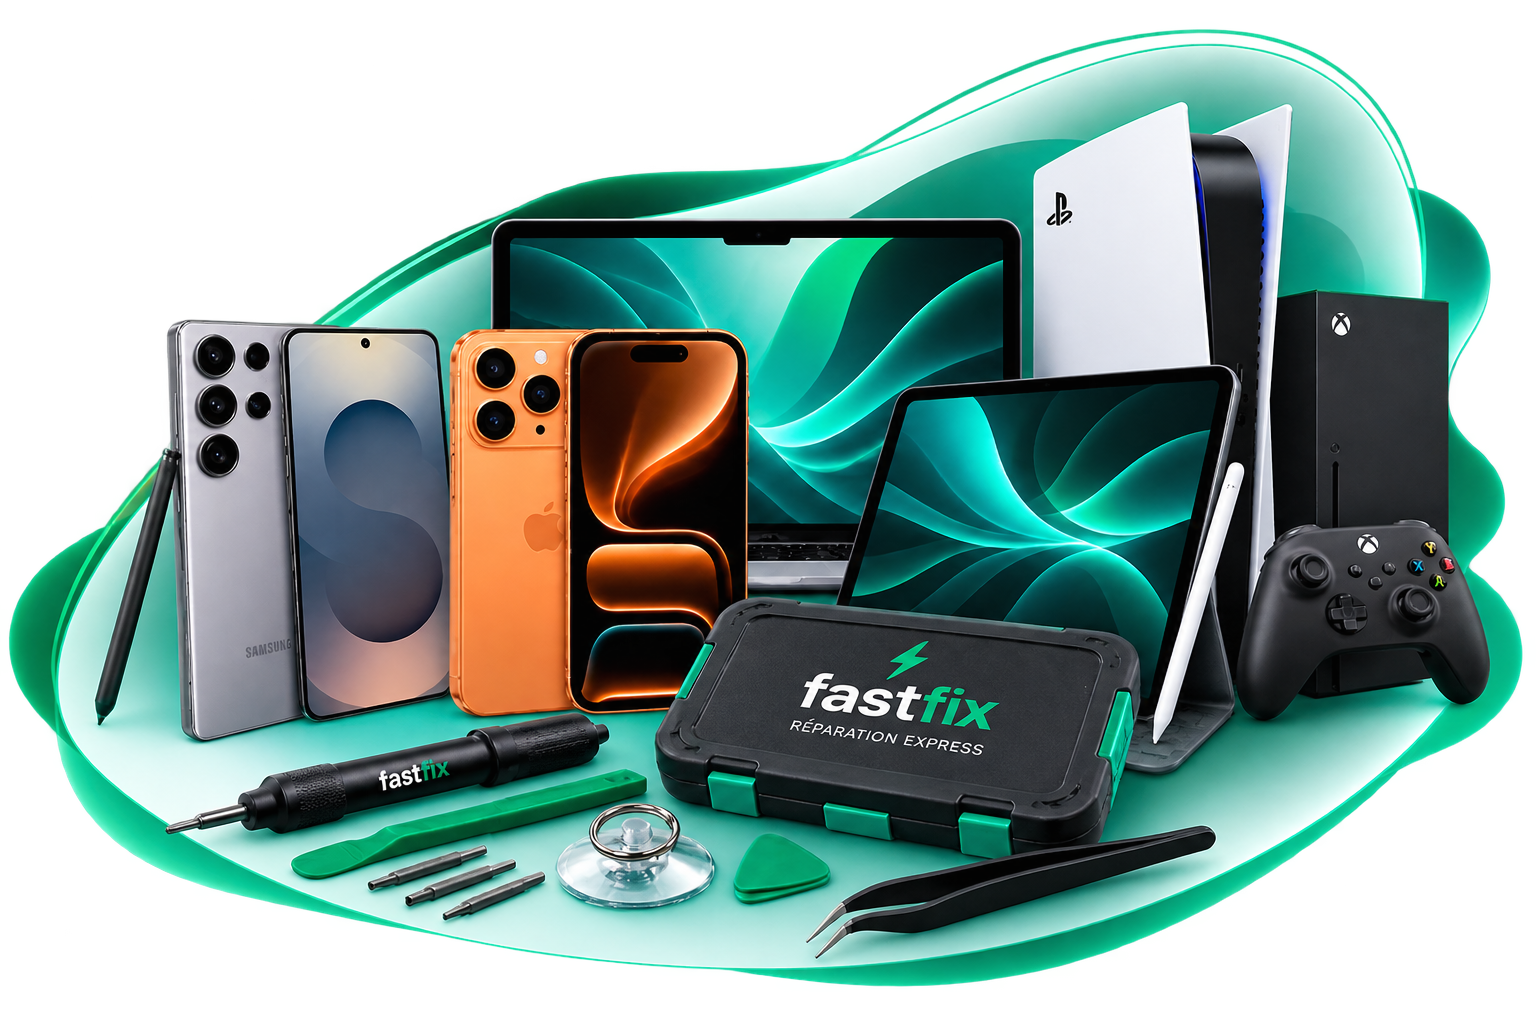
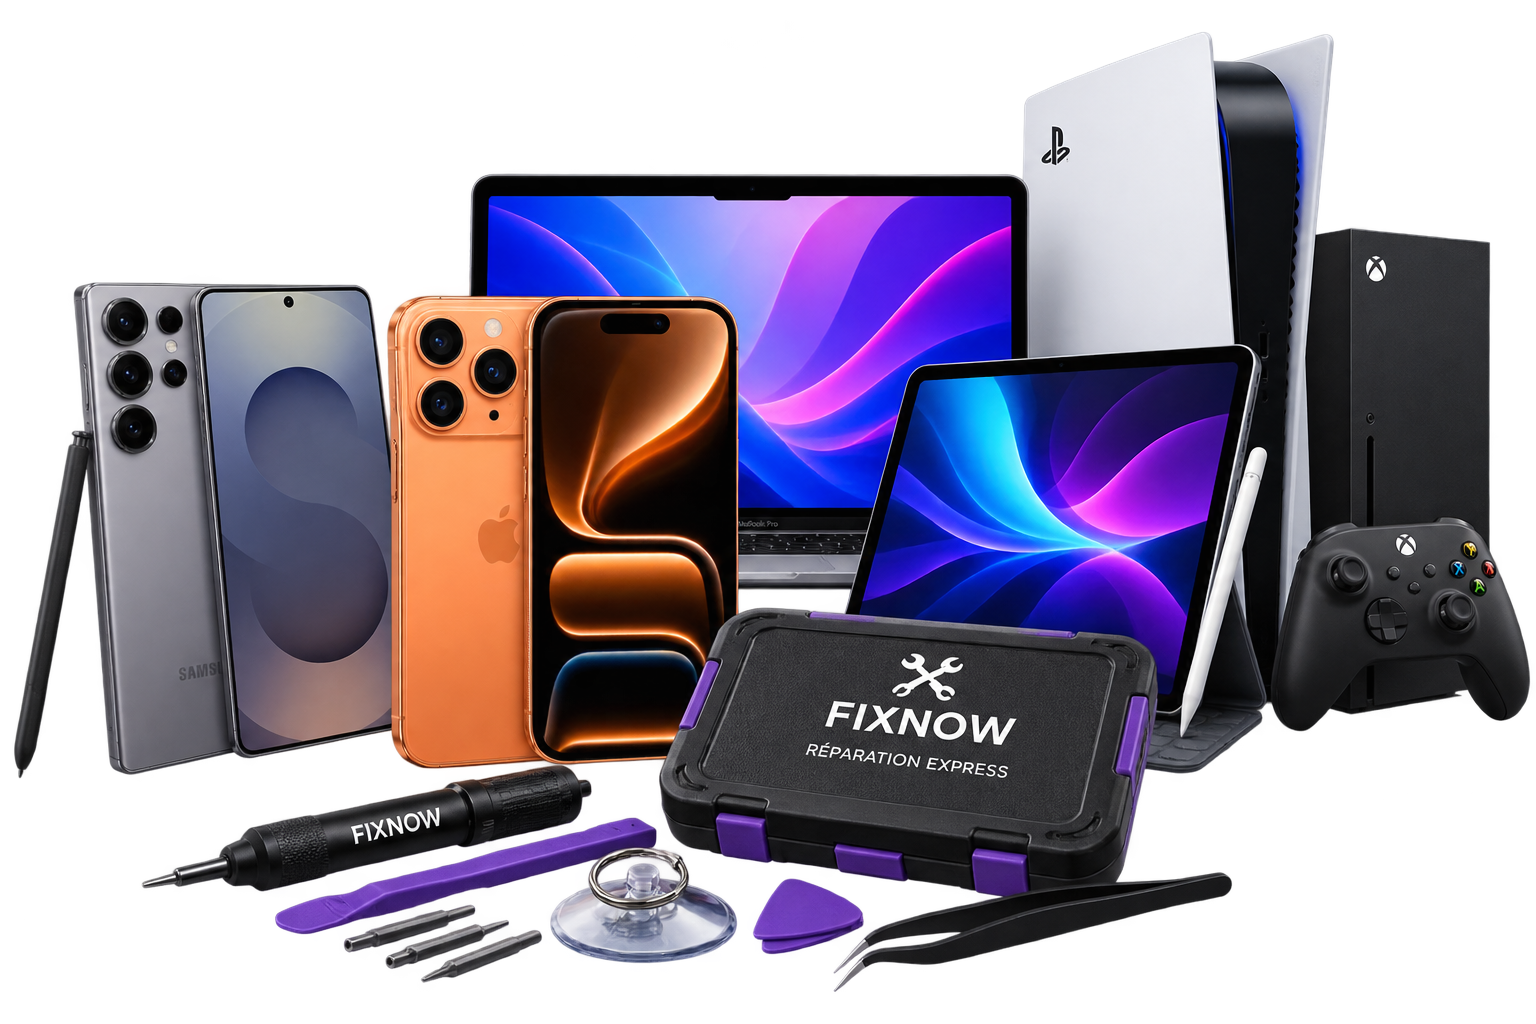
'edit'

diff --git a/src/styles/global.css b/src/styles/global.css
@@ -5,20 +5,20 @@
   --font-sans: "Inter", system-ui, sans-serif;
 
   --color-bg: #FFFFFF;
-  --color-bg-alt: #F4F7F5;
+  --color-bg-alt: #F7F7F7;
   --color-bg-dark: #0A0A0A;
   --color-surface: #FFFFFF;
 
-  --color-primary: #10B981;
-  --color-primary-light: #34D399;
-  --color-primary-dark: #059669;
+  --color-primary: #F97316;
+  --color-primary-light: #FB923C;
+  --color-primary-dark: #C2410C;
 
-  --color-teal: #059669;
-  --color-teal-light: #6EE7B7;
+  --color-teal: #1F1F1F;
+  --color-teal-light: #4B4B4B;
 
-  --color-cyan: #06D6A0;
-  --color-accent: #06D6A0;
-  --color-accent-light: #6EE7B7;
+  --color-cyan: #F97316;
+  --color-accent: #F97316;
+  --color-accent-light: #FDBA74;
 
   --color-warning: #F59E0B;
   --color-danger: #EF4444;
@@ -57,7 +57,7 @@ body {
   background: linear-gradient(
     135deg,
     var(--color-primary),
-    #06D6A0
+    #FB923C
   );
 
   -webkit-background-clip: text;
@@ -66,7 +66,7 @@ body {
 }
 
 /* ══════════════════════════════════════
-   NOIR PROFOND → VERT ÉMERAUDE PREMIUM
+   NOIR PROFOND → ORANGE PREMIUM
 ══════════════════════════════════════ */
 
 /* Gradient principal */
@@ -75,15 +75,15 @@ body {
   background:
     radial-gradient(
       circle at 75% 45%,
-      rgba(16, 185, 129, 0.20) 0%,
+      rgba(249, 115, 22, 0.20) 0%,
       transparent 35%
     ),
     linear-gradient(
       110deg,
-      #080d0c 0%,
-      #0b211b 35%,
-      #0b5a43 68%,
-      #059669 100%
+      #080808 0%,
+      #171717 35%,
+      #3a2411 68%,
+      #C2410C 100%
     );
 }
 
@@ -93,14 +93,14 @@ body {
   background:
     radial-gradient(
       circle at 80% 50%,
-      rgba(52, 211, 153, 0.15) 0%,
+      rgba(251, 146, 60, 0.15) 0%,
       transparent 40%
     ),
     linear-gradient(
       110deg,
-      #0a0f0d 0%,
-      #102a22 45%,
-      #065f46 100%
+      #0a0a0a 0%,
+      #1f1f1f 45%,
+      #7C2D12 100%
     );
 }
 
@@ -110,21 +110,21 @@ body {
   background:
     radial-gradient(
       circle at 78% 42%,
-      rgba(52, 211, 153, 0.18) 0%,
+      rgba(251, 146, 60, 0.18) 0%,
       transparent 32%
     ),
     radial-gradient(
       circle at 55% 100%,
-      rgba(5, 150, 105, 0.20) 0%,
+      rgba(194, 65, 12, 0.20) 0%,
       transparent 45%
     ),
     linear-gradient(
       110deg,
-      #070b0a 0%,
-      #0a211a 30%,
-      #0b4939 60%,
-      #087b5b 82%,
-      #059669 100%
+      #070707 0%,
+      #1a1a1a 30%,
+      #4a2810 60%,
+      #9A3412 82%,
+      #F97316 100%
     );
 }
 
@@ -134,10 +134,10 @@ body {
   background:
     linear-gradient(
       110deg,
-      #070908 0%,
-      #0a1712 35%,
-      #0b3529 70%,
-      #064e3b 100%
+      #070707 0%,
+      #121212 35%,
+      #2b1a0d 70%,
+      #7C2D12 100%
     );
 }
 
@@ -147,9 +147,9 @@ body {
   background:
     linear-gradient(
       135deg,
-      #047857 0%,
-      #059669 45%,
-      #10b981 100%
+      #C2410C 0%,
+      #EA580C 45%,
+      #F97316 100%
     );
 }
 
@@ -164,7 +164,7 @@ body {
 
 .card:hover {
   box-shadow:
-    0 10px 40px rgba(16, 185, 129, 0.10),
+    0 10px 40px rgba(249, 115, 22, 0.10),
     0 2px 8px rgba(0, 0, 0, 0.04);
 
   transform: translateY(-2px);
@@ -203,13 +203,13 @@ body {
 }
 
 .badge-green {
-  background: #ECFDF5;
-  color: #059669;
+  background: #FFF7ED;
+  color: #C2410C;
 }
 
 .badge-purple {
-  background: #ECFDF5;
-  color: #059669;
+  background: #111111;
+  color: #FFFFFF;
 }
 
 /* ── Pill button ── */
@@ -240,7 +240,7 @@ body {
   color: var(--color-primary);
 
   box-shadow:
-    0 2px 12px rgba(16, 185, 129, 0.15);
+    0 2px 12px rgba(249, 115, 22, 0.15);
 }
 
 /* ── Wave separator ── */
@@ -348,7 +348,7 @@ body {
   border-color: var(--color-primary);
 
   box-shadow:
-    0 4px 16px rgba(16, 185, 129, 0.3);
+    0 4px 16px rgba(249, 115, 22, 0.3);
 }
 
 /* ── Floating orb animations ── */
@@ -420,7 +420,7 @@ body {
   background:
     radial-gradient(
       circle,
-      rgba(16, 185, 129, 0.10) 0%,
+      rgba(249, 115, 22, 0.10) 0%,
       transparent 70%
     );
 
@@ -432,7 +432,7 @@ body {
   background:
     radial-gradient(
       circle,
-      rgba(5, 150, 105, 0.10) 0%,
+      rgba(23, 23, 23, 0.10) 0%,
       transparent 70%
     );
 
@@ -444,7 +444,7 @@ body {
   background:
     radial-gradient(
       circle,
-      rgba(6, 214, 160, 0.08) 0%,
+      rgba(251, 146, 60, 0.08) 0%,
       transparent 70%
     );
 
